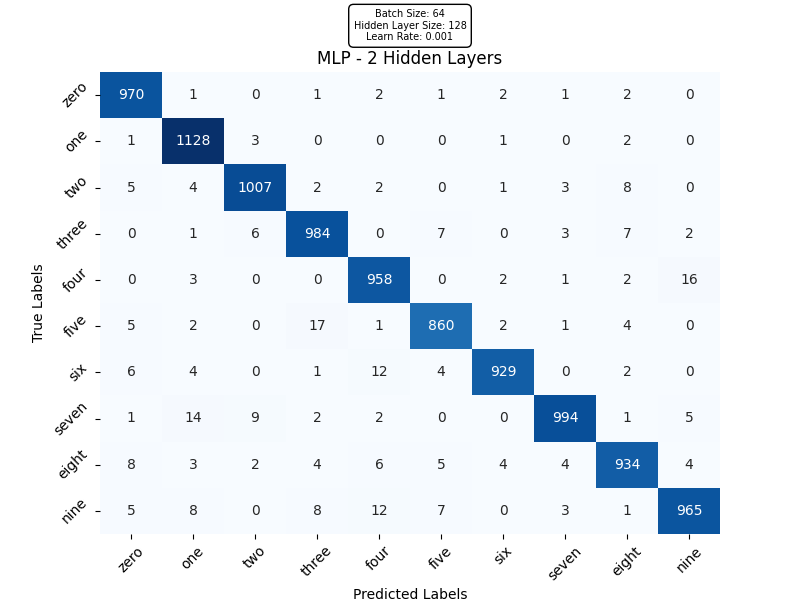
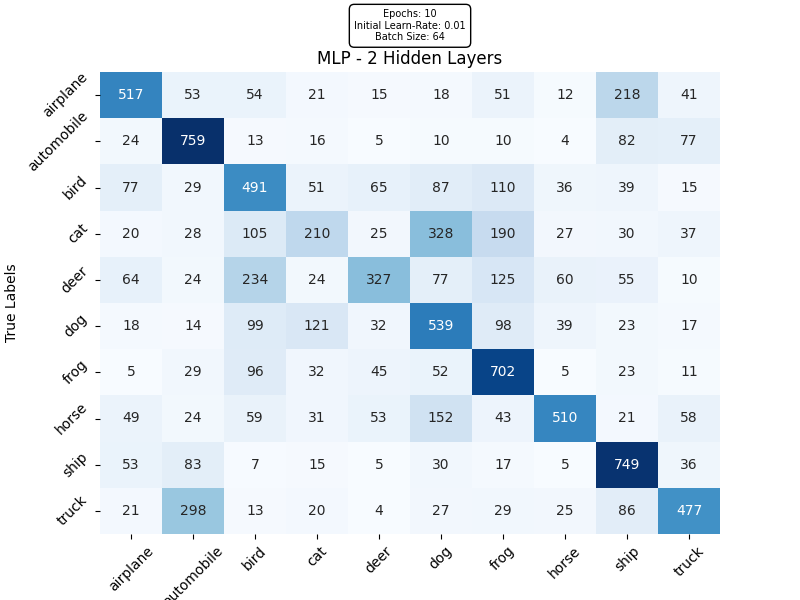
mlp_cifar implements confusionMatrix

diff --git a/mlp_cifar.py b/mlp_cifar.py
@@ -196,6 +196,9 @@ class Classifier:
               f'({100. * correct / len(self.test_loader.dataset):.0f}%)\n'
               f'Precision: {precision:.4f}, Recall: {recall:.4f}, F1: {f1:.04f}')
         
+        self.conf_matrix = confusion_matrix(all_labels, all_predictions)
+
+        
     def plot_val_train_losses(self):
         plt.figure(figsize=(10, 5))
         plt.plot(self.train_losses, label='Training Loss', color='blue')
@@ -206,10 +209,40 @@ class Classifier:
         plt.legend()
         plt.show()
 
+    def plot_confMatrix(self):
+        class_names = ['airplane', 'automobile', 'bird', 'cat', 'deer',
+               'dog', 'frog', 'horse', 'ship', 'truck']
+        
+        hyperparameters = {
+            'Epochs' : self.n_epochs,
+            'Initial Learn-Rate' : self.init_lr ,
+            'Batch Size' : self.batch_size
+        }
+        # Konvertiere die Hyperparameter in einen lesbaren String
+        hyperparameters_str = '\n'.join([f'{key}: {value}' for key, value in hyperparameters.items()])
+
+        # Plot Confusion Matrix
+        plt.figure(figsize=(8, 6))
+        sns.heatmap(self.conf_matrix, annot=True, fmt='d', cmap='Blues', cbar=False, 
+                    xticklabels=class_names, yticklabels=class_names)
+        plt.title('MLP - 2 Hidden Layers')
+        plt.xlabel('Predicted Labels')
+        plt.ylabel('True Labels')
+
+        # Füge eine Anmerkung mit den Hyperparametern hinzu
+        plt.annotate(hyperparameters_str, xy=(0.5, 1.05), xytext=(0.5, 1.1),
+                xycoords='axes fraction', textcoords='axes fraction',
+                fontsize=7, ha='center', va='center', bbox=dict(facecolor='none', edgecolor='black', boxstyle='round,pad=0.5'))
+
+        plt.xticks(rotation=45)  # Drehen Sie die Achsenbeschriftungen für bessere Lesbarkeit
+        plt.yticks(rotation=45)
+        plt.savefig('./confusion_Matrices/cm_MNIST_MLP_2_hiddenL.png')  # Speichern Sie die Confusion Matrix als PNG-Datei
+        plt.show()
+
 
 
 def main():
-    n_epochs = 1
+    n_epochs = 10
     save = False
     log_interval = 10
     init_lr = 0.01
@@ -224,6 +257,7 @@ def main():
     cl.plot_val_train_losses()
 
     cl.test()
+    cl.plot_confMatrix
 
 if __name__ == '__main__':
     main()
